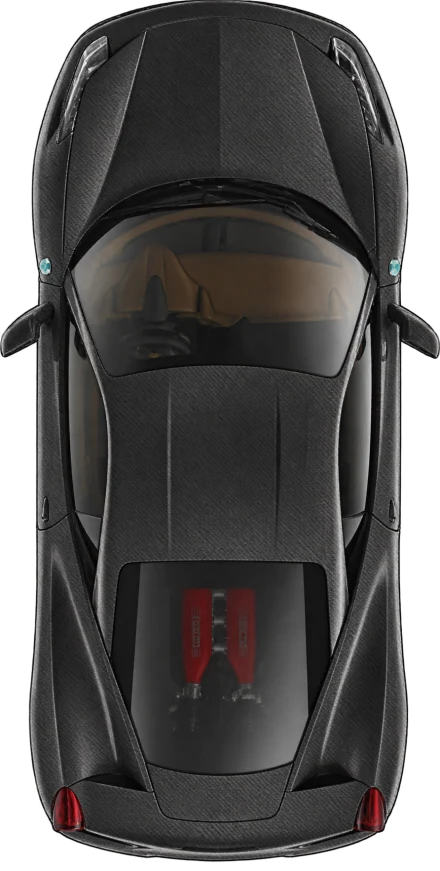
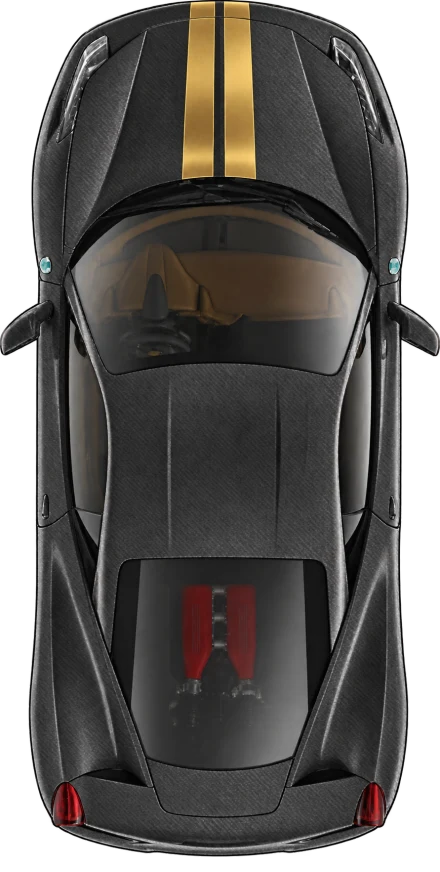
feat(landing): nowe zdjęcia — auto z góry ze złotymi pasami i Porsche    na torze

diff --git a/src/components/Pillars.tsx b/src/components/Pillars.tsx
@@ -6,7 +6,7 @@ import { pillars, copy } from '../content'
 const strip = [
   { img: 'assets/strip-1.webp', cap: 'Bolonia · Golden hour', alt: 'Czerwone Ferrari na ulicy Bolonii w świetle golden hour', still: true },
   { img: 'assets/strip-2.webp', cap: 'Ferrari · Kokpit', alt: 'Kierownica Ferrari z karbonu w ciepłym, złotym świetle', still: false },
-  { img: 'assets/strip-3.webp', cap: 'Riwiera · Droga nadmorska', alt: 'Granatowe Ferrari na nadmorskiej serpentynie Riwiery', still: true },
+  { img: 'assets/strip-3.webp', cap: 'Track Day · Zmierzch', alt: 'Czarne Porsche 911 GT3 ze złotym pasem na torze o zmierzchu, za nim kolumna aut', still: true },
 ] as const
 
 export default function Pillars() {
